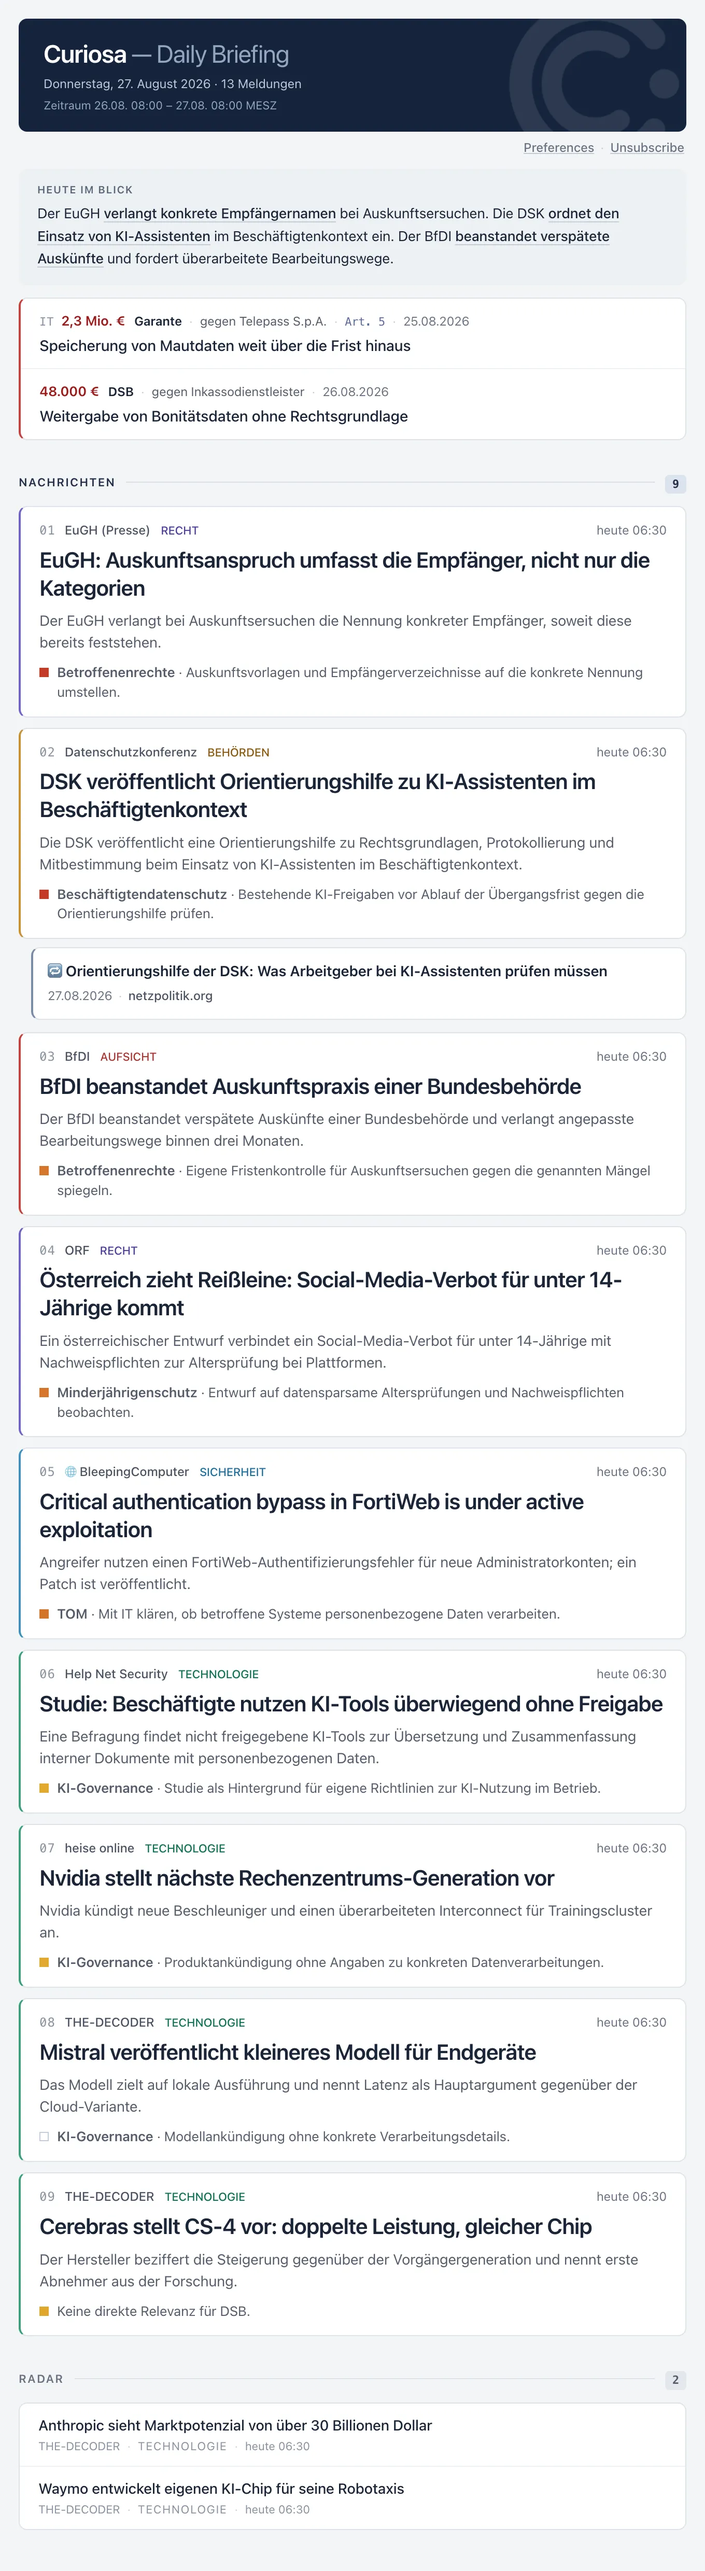
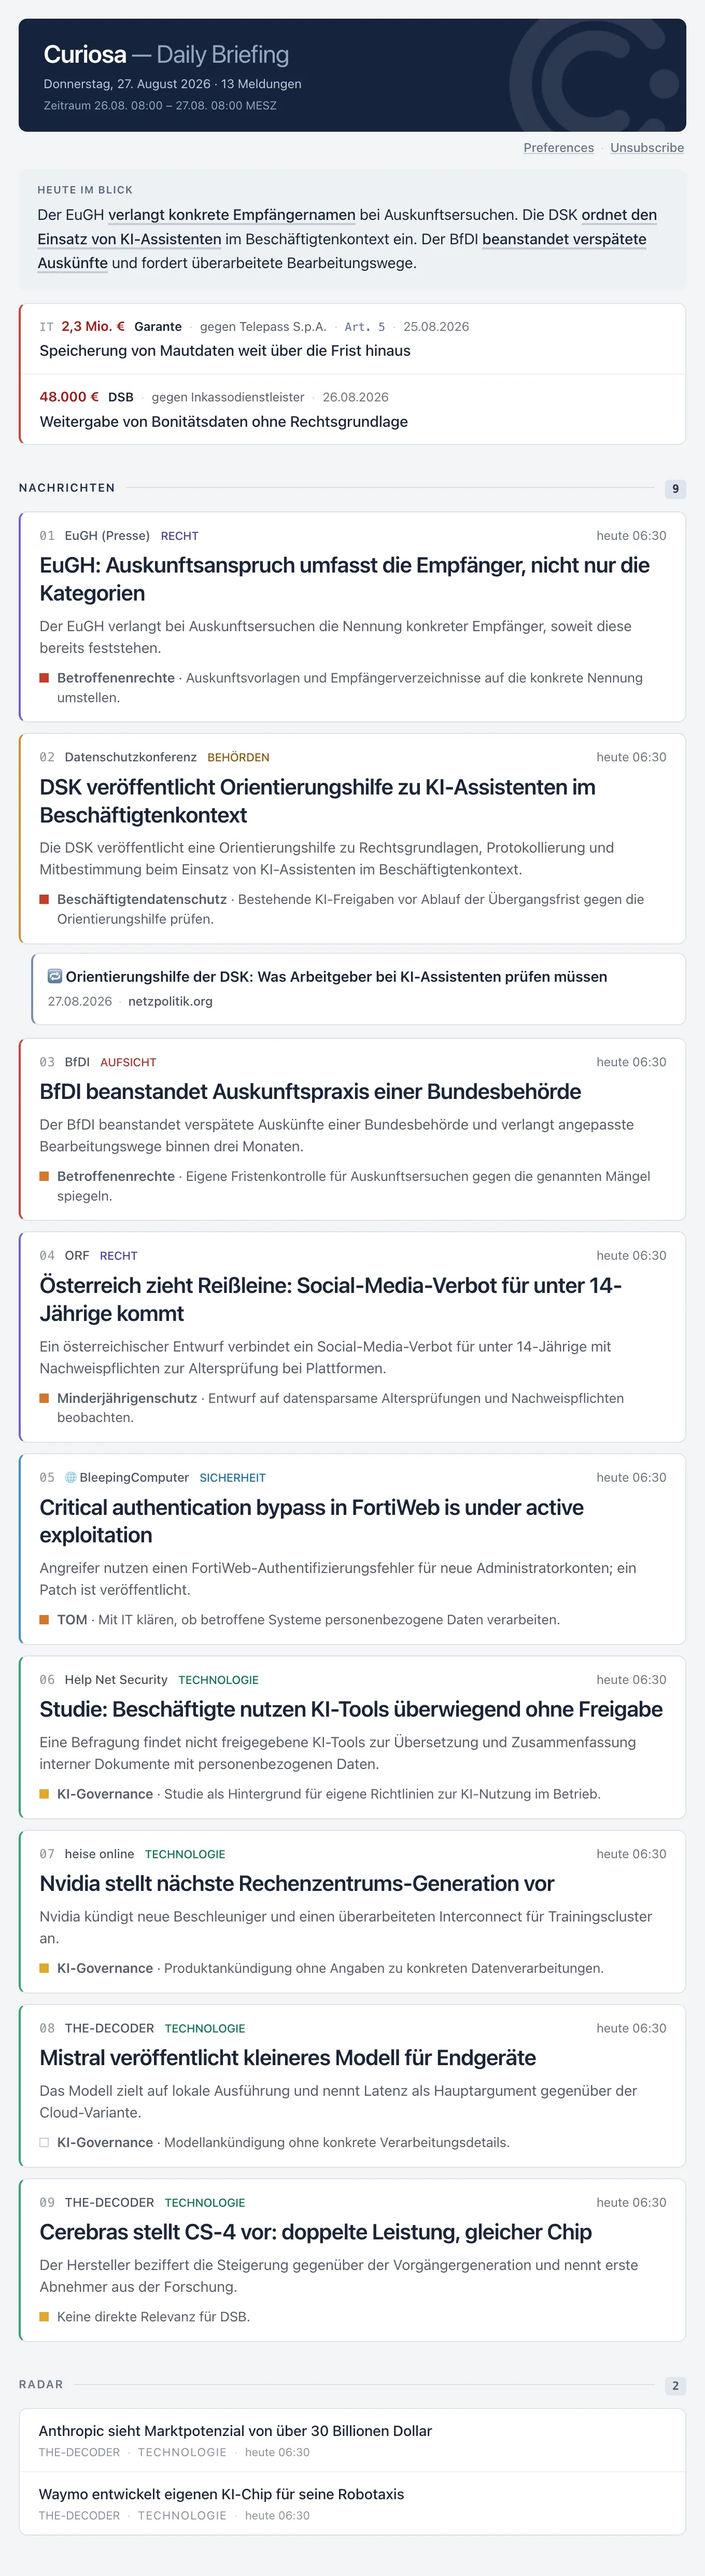
Samples and layout sheets for the new Editorial; weekly opens on its intro
- Regenerated the daily and weekly samples and all sixteen layout sheets:
  grey page, rounded header with the relevance bar hung under it, "Today"
  intro, decisions without a heading, shadowed cards with filled category
  tags, "Also noted", two-column footer.
- The weekly sample opens on its "This week" intro; the authority tally
  it showed is gone from the issue.
- Landing captions describe both, and the image sizes match the new files.

diff --git a/index.html b/index.html
@@ -50,9 +50,9 @@
                     </figcaption>
 
                     <div class="sample__sheet">
-                        <img class="sample__page" loading="lazy" decoding="async" src="/email-sample-daily.webp" width="1360" height="3773"
-                             alt="Tägliches Curiosa-Briefing in Editorial: dunkle Kopfzeile mit Relevanzbalken, ein verlinkter Überblick, kompakte Entscheidungen und Bußgelder, gerankte Nachrichtenkarten mit Bedeutung für die Praxis und darunter Radar.">
-                        <img class="sample__page sample__page--haze" loading="lazy" decoding="async" src="/email-sample-daily.webp" width="1360" height="3773"
+                        <img class="sample__page" loading="lazy" decoding="async" src="/email-sample-daily.webp" width="1360" height="3617"
+                             alt="Tägliches Curiosa-Briefing in Editorial: dunkle Kopfzeile mit Relevanzbalken, ein verlinkter Überblick „Today“, kompakte Entscheidungen und Bußgelder, gerankte Nachrichtenkarten mit Bedeutung für die Praxis und darunter weitere Meldungen unter „Also noted“.">
+                        <img class="sample__page sample__page--haze" loading="lazy" decoding="async" src="/email-sample-daily.webp" width="1360" height="3617"
                              alt="" aria-hidden="true">
                     </div>
 
@@ -61,7 +61,7 @@
                         und Bußgelder, dann die gerankten Karten mit ihrer Bedeutung für die Praxis.
                         Die farbigen Markierungen zeigen die Wichtigkeit. Weitere Berichte zum selben
                         Ereignis stehen direkt in der Karte. Meldungen ohne direkten Datenschutzbezug
-                        stehen unten kompakt im Radar.
+                        stehen unten kompakt im Radar, im Briefing unter „Also noted“.
                     </p>
                 </figure>
 
@@ -72,15 +72,15 @@
                     </figcaption>
 
                     <div class="sample__sheet">
-                        <img class="sample__page" loading="lazy" decoding="async" src="/email-sample-weekly.webp" width="1360" height="2401"
-                             alt="Wöchentliches Curiosa-Briefing in Editorial: Kopfzeile mit Relevanzbalken, ein Block zur Aktivität der Aufsichtsbehörden und gerankte Nachrichtenkarten mit Datum, Wichtigkeit und Bedeutung für die Praxis.">
-                        <img class="sample__page sample__page--haze" loading="lazy" decoding="async" src="/email-sample-weekly.webp" width="1360" height="2401"
+                        <img class="sample__page" loading="lazy" decoding="async" src="/email-sample-weekly.webp" width="1360" height="2381"
+                             alt="Wöchentliches Curiosa-Briefing in Editorial: Kopfzeile mit Relevanzbalken, ein verlinkter Überblick „This week“ und gerankte Nachrichtenkarten mit Datum, Wichtigkeit und Bedeutung für die Praxis.">
+                        <img class="sample__page sample__page--haze" loading="lazy" decoding="async" src="/email-sample-weekly.webp" width="1360" height="2381"
                              alt="" aria-hidden="true">
                     </div>
 
                     <p class="sample__legend">
-                        Jeden Montag der Rückblick auf die vergangene Woche: zuerst die Aktivität
-                        der Aufsichtsbehörden und die Veränderung zur Vorwoche, danach die stärksten
+                        Jeden Montag der Rückblick auf die vergangene Woche: zuerst ein kurzer,
+                        verlinkter Überblick über das Wichtigste der Woche, danach die stärksten
                         Meldungen. Jede Karte zeigt Datum, Kategorie, Wichtigkeit und Bedeutung für
                         die Praxis. Weitere Berichte zum selben Ereignis bleiben bei der Hauptmeldung.
                     </p>
